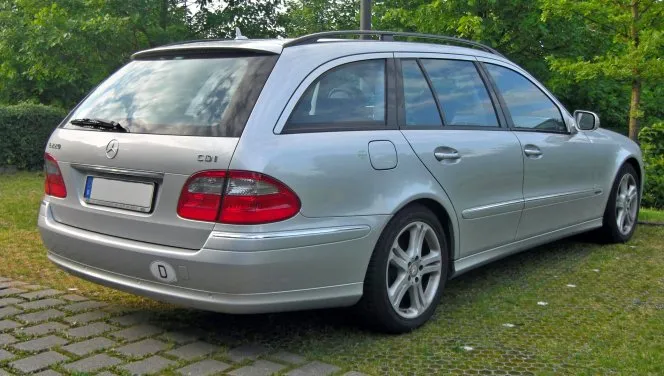
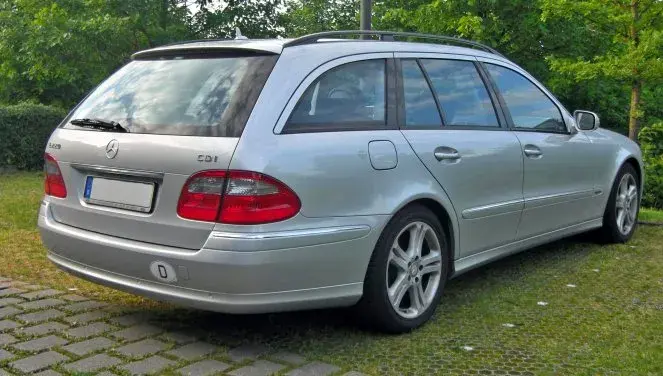
246

diff --git a/pic/ja_mb_img_e.html b/pic/ja_mb_img_e.html
@@ -737,7 +737,7 @@
 						<h5 class="i">Facelift</h5>
 						<p class="i m1">06/2006</p><br>
 						<a href="full/e/s211_f2.jpg"><img loading="lazy" src="style/e/s211_f2.webp" alt="メルセデス,S211,Eクラス,フロント" width="541" height="376"></a>
-						<a href="full/e/s211_r2.jpg"><img loading="lazy" src="style/e/s211_r2.webp" alt="メルセデス,S211,Eクラス,リヤ" width="664" height="376"></a>
+						<a href="full/e/s211_r2.jpg"><img loading="lazy" src="style/e/s211_r2.webp" alt="メルセデス,S211,Eクラス,リヤ" width="663" height="376"></a>
 						<h5>Dimensions</h5>
 						<a href="full/e/s211_a.jpg"><img loading="lazy" src="style/e/s211_a.png" alt="メルセデス,S211,Eクラス,寸法" width="803" height="1031"></a>
 					</section>

diff --git a/pic/mb_img_e.html b/pic/mb_img_e.html
@@ -737,7 +737,7 @@
 						<h5 class="i">Modellpflege</h5>
 						<p class="i m1">06/2006</p><br>
 						<a href="full/e/s211_f2.jpg"><img loading="lazy" src="style/e/s211_f2.webp" alt="Mercedes,S211,E-klasse,Frontansicht" width="541" height="376"></a>
-						<a href="full/e/s211_r2.jpg"><img loading="lazy" src="style/e/s211_r2.webp" alt="Mercedes,S211,E-klasse,Rückansicht" width="664" height="376"></a>
+						<a href="full/e/s211_r2.jpg"><img loading="lazy" src="style/e/s211_r2.webp" alt="Mercedes,S211,E-klasse,Rückansicht" width="663" height="376"></a>
 						<h5>Abmessungen</h5>
 						<a href="full/e/s211_a.jpg"><img loading="lazy" src="style/e/s211_a.png" alt="Mercedes,S211,E-klasse,Maße" width="803" height="1031"></a>
 					</section>

diff --git a/pic/en_mb_img_e.html b/pic/en_mb_img_e.html
@@ -737,7 +737,7 @@
 						<h5 class="i">Facelift</h5>
 						<p class="i m1">06/2006</p><br>
 						<a href="full/e/s211_f2.jpg"><img loading="lazy" src="style/e/s211_f2.webp" alt="Mercedes,S211,E-class,Front view" width="541" height="376"></a>
-						<a href="full/e/s211_r2.jpg"><img loading="lazy" src="style/e/s211_r2.webp" alt="Mercedes,S211,E-class,Rear view" width="664" height="376"></a>
+						<a href="full/e/s211_r2.jpg"><img loading="lazy" src="style/e/s211_r2.webp" alt="Mercedes,S211,E-class,Rear view" width="663" height="376"></a>
 						<h5>Dimensions</h5>
 						<a href="full/e/s211_a.jpg"><img loading="lazy" src="style/e/s211_a.png" alt="Mercedes,S211,E-class,Dimensions" width="803" height="1031"></a>
 					</section>
